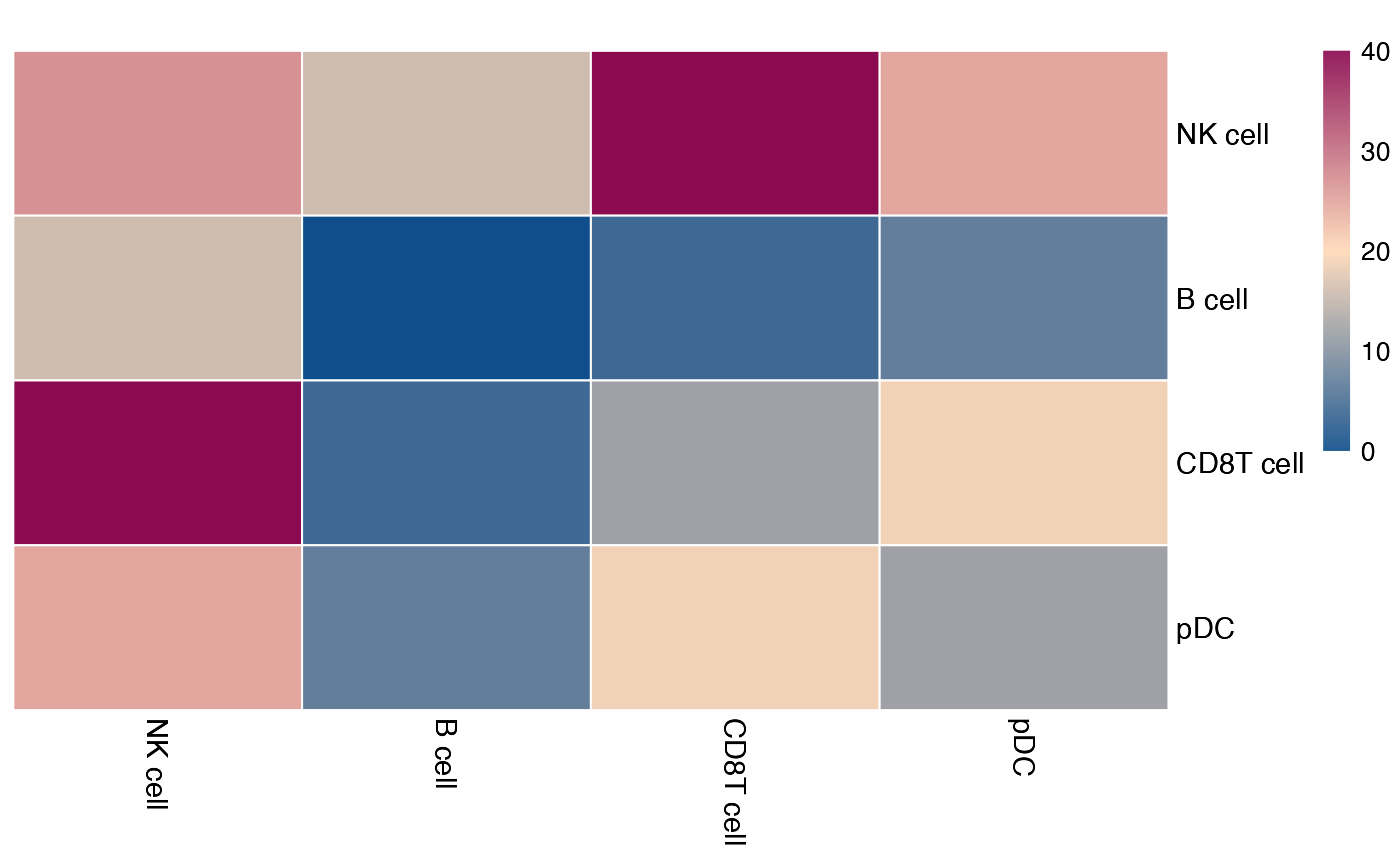
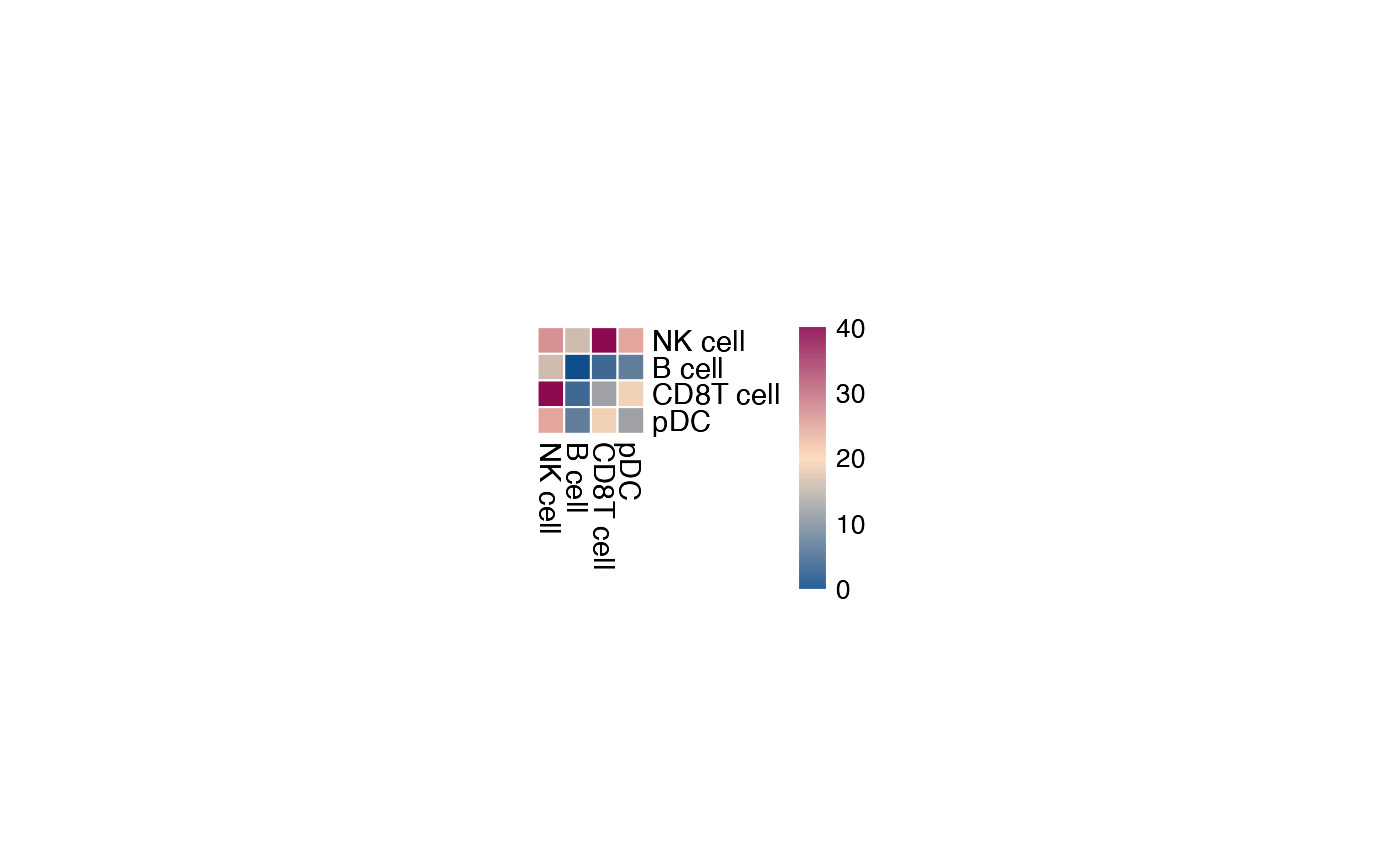
Built site for ktplots: 2.2.0@3631b2f

diff --git a/articles/vignette.html b/articles/vignette.html
@@ -156,7 +156,7 @@ achieved with this reimplemented function.</p>
 <p><img src="vignette_files/figure-html/unnamed-chunk-7-1.png" width="700"></p>
 <p>You can also specify specific celltypes to plot.</p>
 <div class="sourceCode" id="cb7"><pre class="downlit sourceCode r">
-<code class="sourceCode R"><span><span class="fu"><a href="../reference/plot_cpdb_heatmap.html">plot_cpdb_heatmap</a></span><span class="op">(</span>pvals<span class="op">=</span><span class="va">pvals_stat</span>, cell_types<span class="op">=</span><span class="fu"><a href="https://rdrr.io/r/base/c.html" class="external-link">c</a></span><span class="op">(</span><span class="st">"NK cell"</span>, <span class="st">"pDC"</span>, <span class="st">"B cell"</span>, <span class="st">"CD8T cell"</span><span class="op">)</span><span class="op">)</span></span></code></pre></div>
+<code class="sourceCode R"><span><span class="fu"><a href="../reference/plot_cpdb_heatmap.html">plot_cpdb_heatmap</a></span><span class="op">(</span>pvals<span class="op">=</span><span class="va">pvals_stat</span>, cell_types<span class="op">=</span><span class="fu"><a href="https://rdrr.io/r/base/c.html" class="external-link">c</a></span><span class="op">(</span><span class="st">"NK cell"</span>, <span class="st">"pDC"</span>, <span class="st">"B cell"</span>, <span class="st">"CD8T cell"</span><span class="op">)</span>, cellheight <span class="op">=</span> <span class="fl">10</span>, cellwidth <span class="op">=</span> <span class="fl">10</span><span class="op">)</span></span></code></pre></div>
 <p><img src="vignette_files/figure-html/unnamed-chunk-8-1.png" width="700"></p>
 <p>The current heatmap is directional (check <code>count_network</code>
 and <code>interaction_edges</code> for more details in
